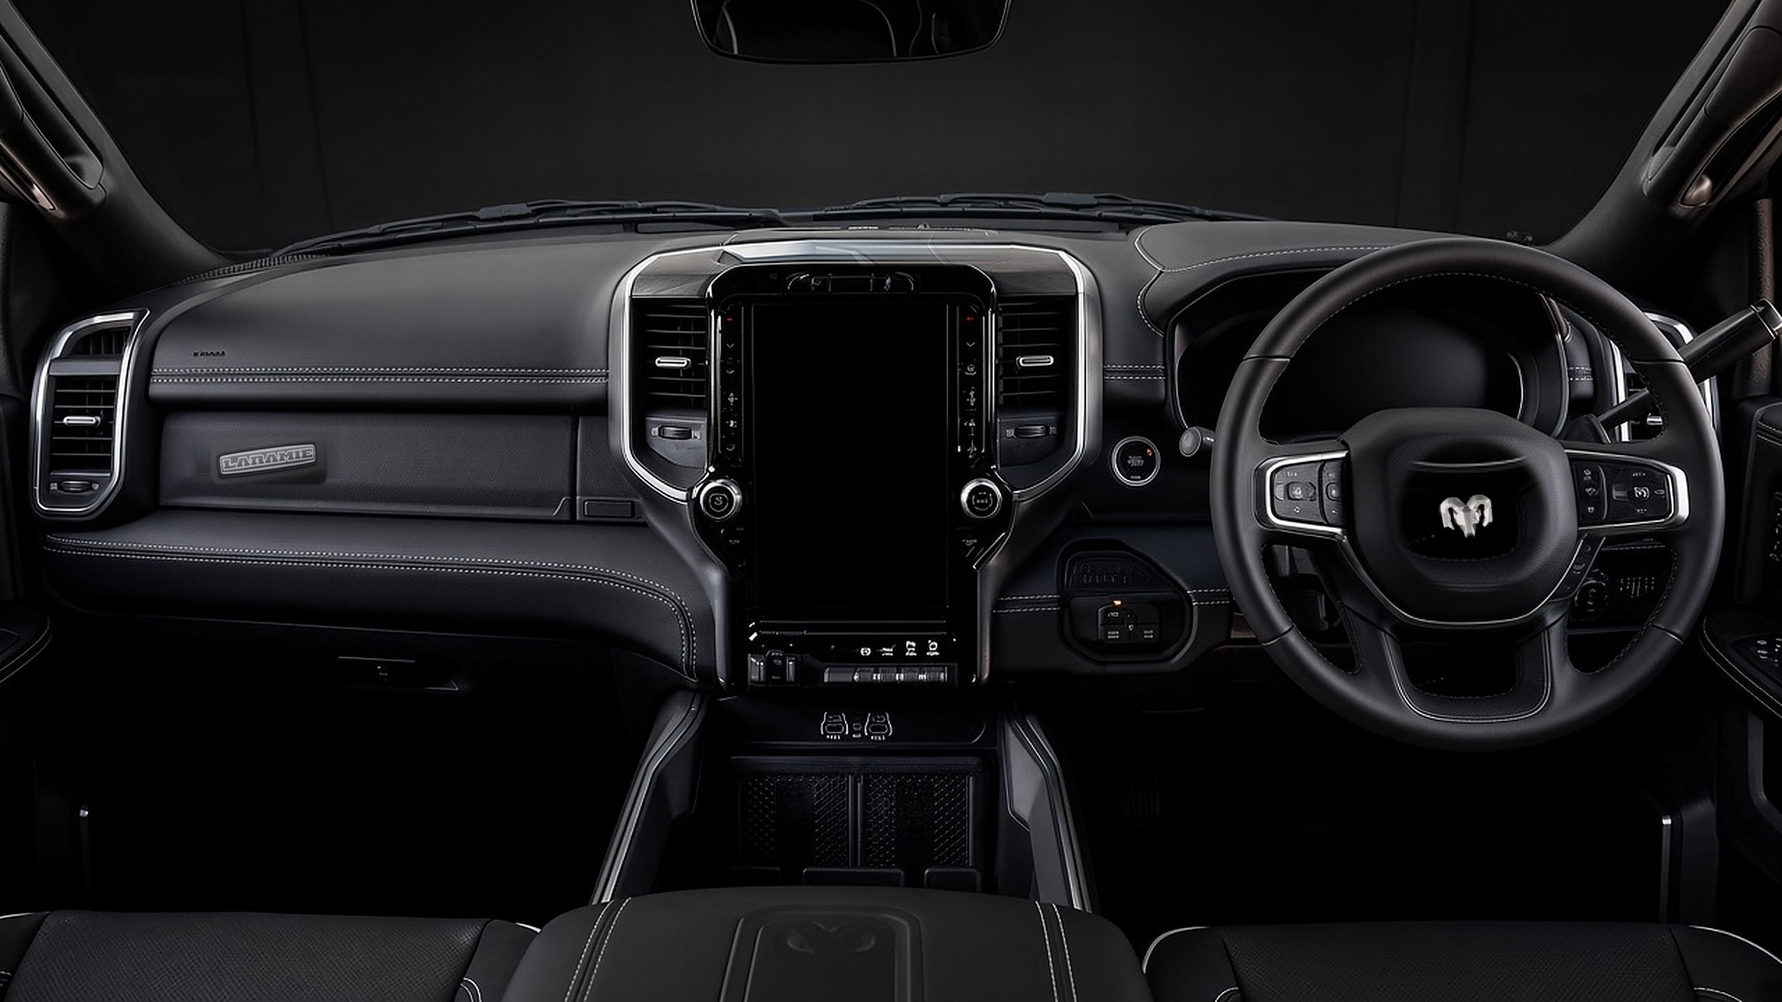
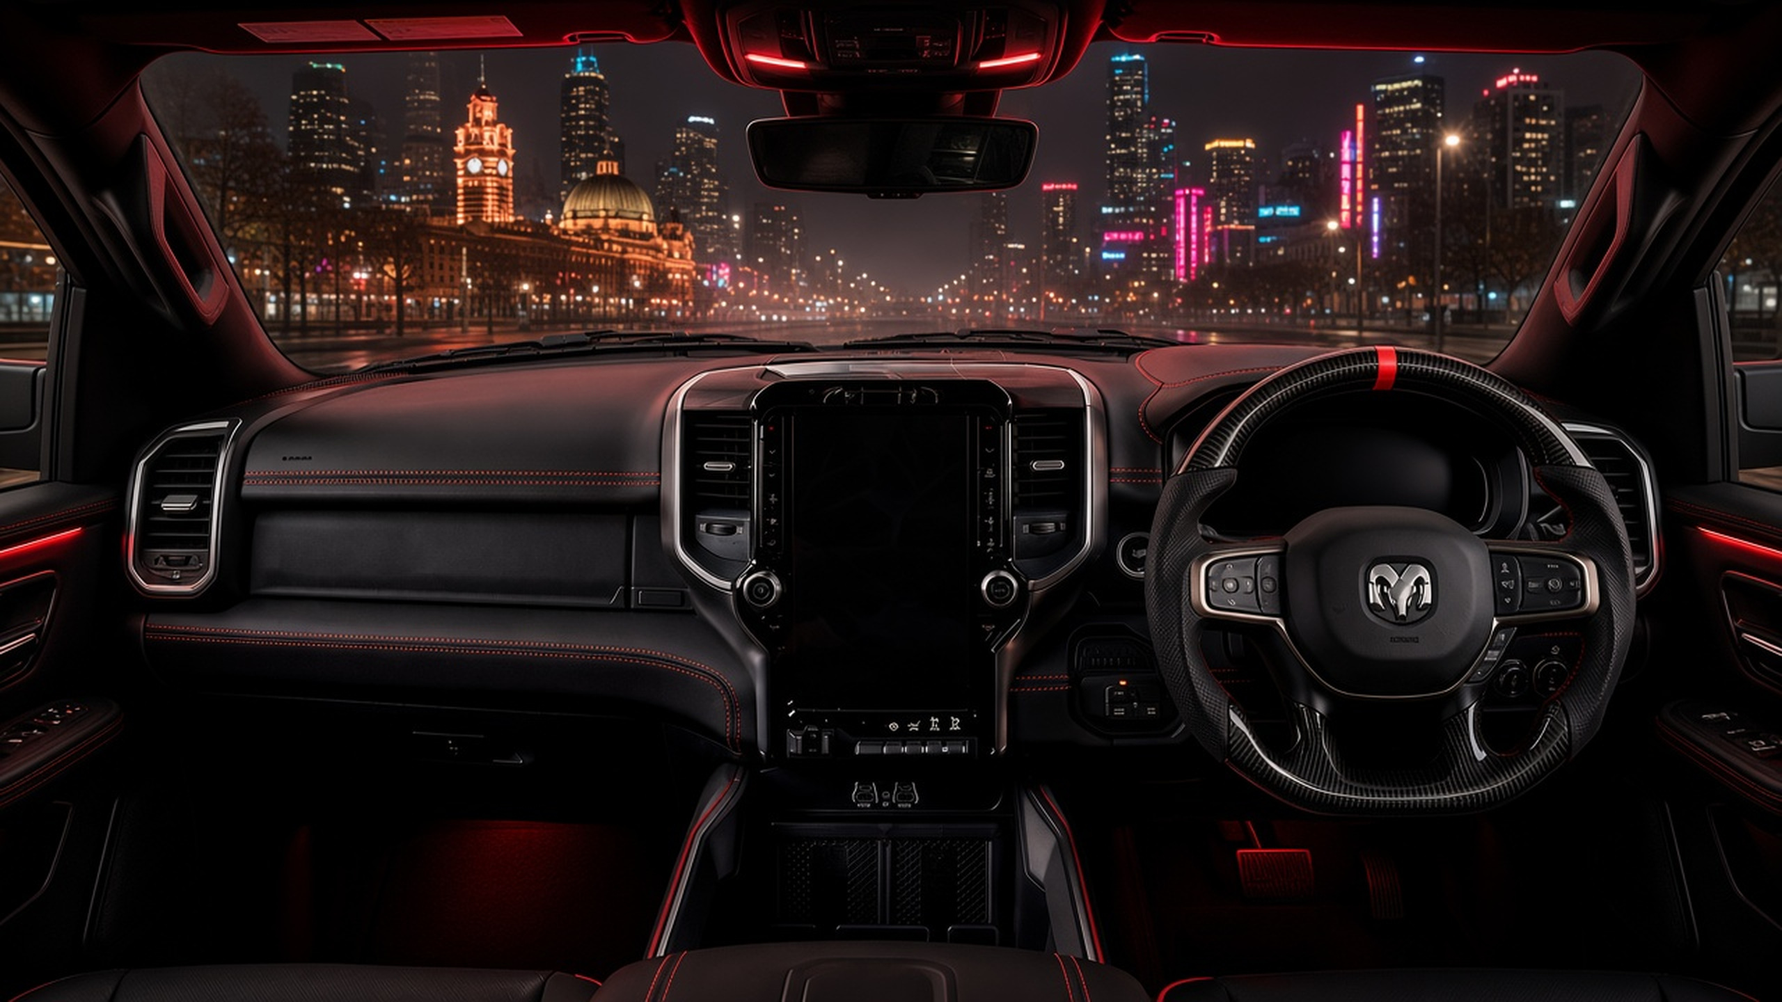
YBI Radio: night Ram cabin with neon Melbourne view, red ambient, screen fitted to glass (#36)
* Remove the dash badges and steady the radio screen.

The cabin photo is plain leather on the wheel, passenger panel, and console lid. The cluster readout is gone, the screen shows a green segment channel number, and the scene no longer shifts with the pointer or the station.

* Use Drew's cabin photo and show the station name.

The approved dashboard replaces the old background and is only upscaled so it stays sharp. The screen and both knobs are measured to this frame. The readout above the equaliser is the station name in 14-segment type.

* Inset the radio screen inside the glass.

The overlay sits a few percent inside the measured black glass on every side, with the bezel left clear and the corner radius following the screen.

* Keep the radio screen content inside the glass corners.

The overlay radius now follows the cabin glass, and the UI is padded so the logo, clock, and transport buttons stay clear of the rounded edge.

* Seat the radio on Drew's night cabin.

The approved photo is the background, upscaled with Lanczos. The overlay stays inside the centre glass, and the volume and seek hotspots sit on the two chrome knobs.

---------

diff --git a/public/assets/app.css b/public/assets/app.css
@@ -1,6 +1,9 @@
 /* YBI Creative — Proofs. Brand tokens lifted from ybicreative.com.au site.css */
 @font-face{font-family:"Archivo";src:url(fonts/archivo-wdth.woff2) format("woff2");font-weight:100 900;font-stretch:62% 125%;font-display:swap}
 @font-face{font-family:"Work Sans";src:url(fonts/work-sans.woff2) format("woff2");font-weight:100 900;font-display:swap}
+/* DSEG14 Classic by Keshikan, used under the SIL Open Font License. Italic is the all-segments layer. */
+@font-face{font-family:"DSEG14-Classic";src:url(fonts/dseg14-classic.woff2) format("woff2");font-weight:400;font-style:normal;font-display:swap}
+@font-face{font-family:"DSEG14-Classic";src:url(fonts/dseg14-classic-italic.woff2) format("woff2");font-weight:400;font-style:italic;font-display:swap}
 :root{
   --bg:#09090a;--bg2:#0f0f11;--bg3:#151518;--ink:#f3f1ec;--mute:#a7a49e;--dim:#6f6c67;
   --line:rgba(243,241,236,.12);--line2:rgba(243,241,236,.22);
@@ -504,19 +507,15 @@ body.is-radio .ftr{display:none}
 body.is-radio main{padding-bottom:0;height:100vh;overflow:hidden}
 body.rx-dock{padding-bottom:84px}
 .rx{position:relative;height:calc(100vh - var(--hdr));overflow:hidden;background:#09090a}
-.rx-scene{position:absolute;transform-origin:center center;will-change:transform}
+.rx-scene{position:absolute;container-type:size}
 .rx-photo{width:100%;height:100%;object-fit:fill;pointer-events:none;user-select:none}
-.rx-cluster{position:absolute;left:77.3%;top:29.9%;width:9.4%;height:8%;display:flex;flex-direction:column;align-items:center;justify-content:center;color:#f3f1ec;text-align:center;pointer-events:none;text-shadow:0 1px 2px rgba(0,0,0,.85)}
-.rx-cluster b{font-family:var(--display);font-stretch:125%;font-weight:800;font-size:1.15vw;line-height:.85}
-.rx-cluster span{font:500 .55vw/1 var(--sans);letter-spacing:.18em;text-transform:uppercase;color:#A7A9AC}
-.rx-cluster em{font-style:normal;font:500 .48vw/1.1 var(--sans);letter-spacing:.08em;text-transform:uppercase;max-width:100%;overflow:hidden;text-overflow:ellipsis;white-space:nowrap}
 .rx-hot{position:absolute;border:0;padding:0;border-radius:50%;background:transparent;cursor:pointer}
-.rx-hot--vol{left:37.19%;top:47.22%;width:5.31%;height:9.44%;cursor:ns-resize}
-.rx-hot--tune{left:52.81%;top:47.22%;width:5.31%;height:9.44%;cursor:ew-resize}
-.rx-hot:focus-visible{outline:2px solid #A7A9AC;outline-offset:2px}
-.rx-screen{position:absolute;left:42.34%;top:29.17%;width:10.78%;height:33.06%;container-type:size;overflow:hidden;border-radius:2px;background:#09090a}
-.rx-screen::after{content:"";position:absolute;inset:0;pointer-events:none;background:linear-gradient(180deg,rgba(243,241,236,.05),transparent 18%)}
-.rx-ui{box-sizing:border-box;height:100%;display:flex;flex-direction:column;overflow:hidden;background:#09090a;color:#f3f1ec;font-family:var(--sans);padding:2.6cqw 2.4cqw 2.2cqw;gap:1.5cqw}
+.rx-hot--vol{left:41.640625%;top:56.805556%;width:2.1875%;height:3.888889%;cursor:ns-resize}
+.rx-hot--tune{left:55%;top:56.805556%;width:2.1875%;height:3.888889%;cursor:ew-resize}
+.rx-hot:focus-visible{outline:2px solid #E10600;outline-offset:2px}
+.rx-screen{position:absolute;left:44.628906%;top:40.579167%;width:9.570313%;height:29.536111%;container-type:size;overflow:hidden;border-radius:.85cqw;background:#000}
+.rx-screen::after{content:"";position:absolute;inset:0;pointer-events:none;border-radius:inherit;background:linear-gradient(180deg,rgba(255,255,255,.11),rgba(255,255,255,.025) 13%,transparent 30%),linear-gradient(118deg,transparent 46%,rgba(255,255,255,.05) 50%,transparent 54%)}
+.rx-ui{box-sizing:border-box;height:100%;min-height:0;display:flex;flex-direction:column;overflow:hidden;background:#09090a;color:#f3f1ec;font-family:var(--sans);padding:5.6cqw 5.2cqw 5.2cqw;gap:1.15cqw}
 .rx-bar{display:flex;align-items:center;gap:2cqw;min-height:5.2cqw;font:500 clamp(8px,2.8cqw,13px)/1 var(--sans);letter-spacing:.12em;text-transform:uppercase;color:#a7a49e}
 .rx-logo{height:4.6cqw;width:auto;max-width:34%;object-fit:contain;display:block}
 .rx-clock{font-variant-numeric:tabular-nums;margin-left:auto}
@@ -524,27 +523,34 @@ body.rx-dock{padding-bottom:84px}
 .rx-sig i{display:block;width:.65cqw;border-radius:1px;background:#6f6c67;opacity:.45}
 .rx-sig i:nth-child(1){height:30%}.rx-sig i:nth-child(2){height:50%}.rx-sig i:nth-child(3){height:75%}.rx-sig i:nth-child(4){height:100%}
 .rx-sig.is-live i{opacity:1;background:#00C853}
-.rx-hero{position:relative;flex:1.05;min-height:0;display:flex;flex-wrap:wrap;align-content:space-between;gap:1cqw 1.6cqw;background:#0f0f11;border-radius:1.6cqw;padding:1.8cqw 1.6cqw 1.4cqw}
-.rx-art{width:22cqw;height:22cqw;border-radius:1.4cqw;display:grid;place-items:center;background:#151518;color:#f3f1ec;font-family:var(--display);font-stretch:125%;font-weight:800;font-size:7cqw;letter-spacing:-.03em;line-height:1}
+.rx-hero{position:relative;flex:1.05;min-height:0;display:flex;flex-wrap:wrap;align-content:space-between;gap:1cqw 1.6cqw;background:#0f0f11;border-radius:1.6cqw;padding:1.8cqw 1.6cqw 1.4cqw;overflow:hidden}
+.rx-art{flex:none;width:22cqw;height:22cqw;border-radius:1.4cqw;display:grid;place-items:center;background:#151518;color:#f3f1ec;font-family:var(--display);font-stretch:125%;font-weight:800;font-size:7cqw;letter-spacing:-.03em;line-height:1}
 .rx-art.is-live{box-shadow:inset 0 0 0 1.5px #00C853;color:#00C853}
 .rx-copy{flex:1;min-width:0;padding-top:.4cqw}
-.rx-kicker{margin:0;font:500 2.3cqw/1 var(--sans);letter-spacing:.22em;text-transform:uppercase;color:#a7a49e}
+.rx-kicker{margin:0;height:2.6cqw;font:500 2.3cqw/2.6cqw var(--sans);letter-spacing:.22em;text-transform:uppercase;color:#a7a49e;overflow:hidden;white-space:nowrap}
 .rx-kicker .ol{color:#A7A9AC;-webkit-text-fill-color:#A7A9AC;filter:url(#ol-s)}
-.rx-hero h1{margin:.6cqw 0 0;font-family:var(--display);font-stretch:125%;font-weight:800;font-size:clamp(12px,6.4cqw,28px);line-height:.9;letter-spacing:-.03em;text-transform:uppercase;color:#f3f1ec}
-.rx-sub{margin:.7cqw 0 0;color:#a7a49e;font:500 2.3cqw/1.15 var(--sans);letter-spacing:.1em;text-transform:uppercase}
-.rx-live{position:absolute;left:1.6cqw;bottom:calc(1.4cqw + 7.5cqw);margin:0;padding:.45cqw 1.4cqw;border-radius:999px;background:#E10600;color:#fff;font:700 2.1cqw/1 var(--sans);letter-spacing:.16em;text-transform:uppercase}
+.rx-hero h1{margin:.5cqw 0 0;height:1.15em;overflow:hidden;text-overflow:ellipsis;white-space:nowrap;font-family:var(--display);font-stretch:125%;font-weight:800;font-size:clamp(8px,5.2cqw,22px);line-height:1.15;letter-spacing:-.03em;text-transform:uppercase;color:#f3f1ec}
+.rx-sub{margin:.55cqw 0 0;height:1.2em;overflow:hidden;text-overflow:ellipsis;white-space:nowrap;color:#a7a49e;font:500 2.2cqw/1.2 var(--sans);letter-spacing:.1em;text-transform:uppercase}
+.rx-live{flex:none;margin:0;padding:.35cqh 1.2cqw;border-radius:999px;background:#E10600;color:#fff;font:700 2.2cqh/1 var(--sans);letter-spacing:.14em;text-transform:uppercase}
 .rx-star{position:absolute;top:1.2cqw;right:1.2cqw;background:none;border:0;color:#6f6c67;font-size:4cqw;cursor:pointer;line-height:1;padding:0}
 .rx-star.is-on{color:#00C853}
-.rx-meter{width:100%;height:6.4cqw;align-self:flex-end}
+.rx-tune{flex:none;align-self:flex-end;width:100%;height:6.4cqh;display:flex;align-items:center;justify-content:space-between;gap:1.2cqw}
+.rx-ch{position:relative;flex:1;min-width:0;height:100%;margin:0;overflow:hidden;font-family:"DSEG14-Classic","Courier New",monospace;font-weight:400;font-style:normal;font-size:4.8cqh;line-height:1;letter-spacing:.03em;color:#00C853}
+.rx-ch-ghost,.rx-ch-text{display:block;width:100%;overflow:hidden;white-space:nowrap;line-height:1}
+.rx-ch-ghost{position:absolute;left:0;top:0;font-style:italic;color:rgba(0,200,83,.28);pointer-events:none}
+.rx-ch-text{position:relative;text-shadow:0 0 8px rgba(0,200,83,.5)}
+.rx-meter{flex:none;align-self:flex-end;width:100%;height:7cqh;display:flex;align-items:flex-end;gap:.7cqw}
+.rx-meter i{flex:1;height:12%;min-height:2px;border-radius:1px;background:#00C853;opacity:.45;transform-origin:bottom center;transition:height .28s ease,opacity .28s ease,background-color .28s ease}
 .rx-tabs{display:flex;gap:1cqw}
 .rx-tabs button,.rx-controls button,.rx-preset{appearance:none;border:1px solid rgba(243,241,236,.16);color:#f3f1ec;background:#0f0f11;cursor:pointer}
-.rx-tabs button{flex:1;min-width:0;height:clamp(16px,6cqw,28px);border-radius:999px;font:500 clamp(8px,2.3cqw,12px)/1 var(--sans);letter-spacing:.06em;text-transform:uppercase}
+.rx-tabs button:active,.rx-controls button:active,.rx-preset:active,.rx-star:active{filter:brightness(.82)}
+.rx-tabs button{flex:1;min-width:0;height:clamp(11px,5.2cqw,26px);border-radius:999px;font:500 clamp(6px,2.2cqw,12px)/1 var(--sans);letter-spacing:.06em;text-transform:uppercase}
 .rx-tabs button.is-on{background:#00C853;border-color:#00C853;color:#09090a}
-.rx-presets{flex:1.15;min-height:0;display:grid;grid-template-columns:1fr 1fr;grid-auto-rows:minmax(22px,1fr);gap:1.1cqw;overflow:auto}
+.rx-presets{flex:1.15;min-height:0;display:grid;grid-template-columns:1fr 1fr;grid-auto-rows:minmax(0,1fr);gap:1cqw;overflow:hidden}
 .rx-preset{display:flex;flex-direction:column;align-items:flex-start;justify-content:center;gap:.3cqw;min-height:0;padding:1.2cqw 1.4cqw;border-radius:1.3cqw;text-align:left}
 .rx-preset i{font-style:normal;font:800 2.6cqw/1 var(--display);font-stretch:125%;color:#a7a49e}
 .rx-preset small{font:500 1.9cqw/1 var(--sans);letter-spacing:.08em;color:#6f6c67}
-.rx-preset b{font:500 clamp(8px,2.5cqw,13px)/1.05 var(--sans);max-width:100%;overflow:hidden;text-overflow:ellipsis;white-space:nowrap}
+.rx-preset b{font:500 clamp(7px,2.6cqw,13px)/1.05 var(--sans);max-width:100%;overflow:hidden;text-overflow:ellipsis;white-space:nowrap}
 .rx-preset.is-on{background:rgba(0,200,83,.16);border-color:#00C853;color:#f3f1ec}
 .rx-preset.is-on i,.rx-preset.is-on small{color:#00C853}
 .rx-empty{grid-column:1 / -1;color:#a7a49e;font-size:2.6cqw;margin:1cqw 0}
@@ -552,11 +558,16 @@ body.rx-dock{padding-bottom:84px}
 .rx-volbar i{display:block;height:100%;width:0;background:#00C853;border-radius:inherit}
 .rx-volbar span{position:absolute;right:1.4cqw;top:50%;transform:translateY(-50%);font:600 2cqw/1 var(--sans);letter-spacing:.08em;color:#09090a;mix-blend-mode:difference}
 .rx-controls{display:flex;align-items:center;gap:1cqw}
-.rx-controls button{flex:1;height:clamp(20px,7.2cqw,34px);min-width:0;padding:0;border-radius:999px;font:500 clamp(8px,2.2cqw,12px)/1 var(--sans);letter-spacing:.04em;text-transform:uppercase}
+.rx-controls button{flex:1;height:clamp(12px,6.4cqw,30px);min-width:0;padding:0 .3cqw;border-radius:999px;font:500 clamp(6px,2.15cqw,12px)/1 var(--sans);letter-spacing:.04em;text-transform:uppercase}
 .rx-controls .rx-play{flex:0 0 7.2cqw;background:#f3f1ec;border-color:#f3f1ec;color:#09090a;font-size:2.8cqw;letter-spacing:0;text-transform:none}
 .rx-controls .rx-play.is-live{background:#00C853;border-color:#00C853;color:#09090a}
 .rx-controls button.is-on{background:#00C853;border-color:#00C853;color:#09090a}
 .rx-controls [data-mute].is-on{background:#E10600;border-color:#E10600;color:#fff}
+@container (max-width: 240px){
+  .rx-kicker,.rx-sub,.rx-preset small,.rx-preset i{display:none}
+  .rx-hero{padding:1.2cqw 1.2cqw 1cqw;gap:.7cqw}
+  .rx-art{width:18cqw;height:18cqw;font-size:5.6cqw}
+}
 .rx-mini{position:fixed;z-index:150;left:12px;right:12px;bottom:12px;display:flex;align-items:center;gap:12px;padding:8px 10px 8px 14px;border-radius:999px;border:1px solid rgba(243,241,236,.22);background:rgba(9,9,10,.92);box-shadow:0 12px 40px rgba(0,0,0,.45)}
 .rx-mini-lamp{width:10px;height:10px;border-radius:50%;background:#6f6c67;flex:none}
 .rx-mini-lamp.is-live{background:#00C853;box-shadow:0 0 10px rgba(0,200,83,.7)}
@@ -567,7 +578,9 @@ body.rx-dock{padding-bottom:84px}
 .rx-mini-vol input{width:100%;accent-color:#00C853}
 @media (max-width:720px){
   .rx-mini-vol{width:72px}
-  .rx-cluster b{font-size:2.4vw}
-  .rx-cluster span{font-size:1.3vw}
-  .rx-cluster em{font-size:1.15vw}
+}
+@media (prefers-reduced-motion:reduce){
+  .rx-meter i{transition:none}
+  .rx-ch-text{text-shadow:none}
+  .rx-tabs button:active,.rx-controls button:active,.rx-preset:active,.rx-star:active{filter:none}
 }

diff --git a/public/assets/radio.js b/public/assets/radio.js
@@ -45,8 +45,15 @@ let scanTimer = 0;
 let playGen = 0;
 let volume = 0.8;
 let ctx, analyser, freq;
-let raf = 0;
+let meterTimer = 0;
+let meterPhase = 0;
 const meters = new Set();
+const BAR_COUNT = 24;
+const barShown = new Array(BAR_COUNT).fill(0.1);
+
+function prefersStill() {
+  return window.matchMedia('(prefers-reduced-motion: reduce)').matches;
+}
 
 function savedVolume() {
   const raw = localStorage.getItem(KEY_VOLUME);
@@ -247,60 +254,75 @@ function mark(station) {
   if (words.length === 1) return words[0].slice(0, 2).toUpperCase();
   return (words[0][0] + words[1][0]).toUpperCase();
 }
-function drawMeter(canvas, t) {
-  const dpr = Math.min(window.devicePixelRatio || 1, 2);
-  const w = canvas.clientWidth || 280;
-  const h = canvas.clientHeight || 48;
-  if (canvas.width !== Math.floor(w * dpr) || canvas.height !== Math.floor(h * dpr)) {
-    canvas.width = Math.floor(w * dpr);
-    canvas.height = Math.floor(h * dpr);
+function stationLine() {
+  return (current ? current.name : 'YBI Radio').toUpperCase();
+}
+function fitStation(root) {
+  const el = $('[data-ch]', root || document);
+  if (!el || !el.clientWidth) return;
+  const text = $('[data-ch-text]', el);
+  const ghost = $('[data-ch-ghost]', el);
+  if (!text || !ghost) return;
+  const line = stationLine();
+  text.textContent = line;
+  ghost.textContent = line;
+  const cap = el.clientHeight || 16;
+  let size = Math.min(cap * 0.92, 28);
+  const floor = Math.max(7, cap * 0.48);
+  const apply = px => { el.style.fontSize = `${px}px`; };
+  apply(size);
+  while (size > floor && text.scrollWidth > el.clientWidth + 0.5) {
+    size = Math.round((size - 0.4) * 10) / 10;
+    apply(size);
   }
-  const g = canvas.getContext('2d');
-  g.setTransform(dpr, 0, 0, dpr, 0, 0);
-  g.clearRect(0, 0, w, h);
-  const n = 28;
-  const gap = 3;
-  const bw = (w - gap * (n - 1)) / n;
+}
+function barTargets() {
   let levels = null;
   if (playing && usingProbe && analyser && freq) {
     analyser.getByteFrequencyData(freq);
-    const sum = freq.reduce((a, b) => a + b, 0);
+    let sum = 0;
+    for (let i = 0; i < freq.length; i++) sum += freq[i];
     if (sum > 0) levels = freq;
   }
-  for (let i = 0; i < n; i++) {
-    let v;
-    if (levels) v = levels[Math.floor(i / n * levels.length)] / 255;
-    else if (playing) v = 0.18 + 0.55 * Math.abs(Math.sin(t / 180 + i * 0.55)) * (0.45 + 0.55 * Math.abs(Math.sin(t / 90 + i)));
-    else v = 0.04;
-    const bh = Math.max(3, v * h);
-    const x = i * (bw + gap);
-    const y = h - bh;
-    g.fillStyle = v > 0.78 ? '#d8ffe8' : '#00C853';
-    g.globalAlpha = playing ? 0.95 : 0.45;
-    g.fillRect(x, y, bw, bh);
+  const out = new Array(BAR_COUNT);
+  for (let i = 0; i < BAR_COUNT; i++) {
+    if (!playing) out[i] = 0.1;
+    else if (levels) out[i] = 0.16 + 0.78 * (levels[Math.min(levels.length - 1, Math.floor(i / BAR_COUNT * levels.length))] / 255);
+    else out[i] = 0.28 + 0.34 * (0.5 + 0.5 * Math.sin(meterPhase + i * 0.62));
   }
-  g.globalAlpha = 1;
+  return out;
 }
-
+function paintMeters() {
+  const still = prefersStill();
+  const targets = barTargets();
+  meters.forEach(el => {
+    if (!el.isConnected) { meters.delete(el); return; }
+    const bars = el.querySelectorAll('i');
+    bars.forEach((bar, i) => {
+      const target = targets[i] ?? 0.1;
+      const v = still ? (playing ? 0.42 : 0.1) : (barShown[i] = barShown[i] + (target - barShown[i]) * 0.42);
+      bar.style.height = `${Math.round(Math.max(0.1, v) * 100)}%`;
+      bar.style.opacity = playing ? '0.95' : '0.4';
+      bar.style.background = !still && v > 0.82 ? '#d8ffe8' : '#00C853';
+    });
+  });
+  if (!still && playing) meterPhase += 0.28;
+}
 function startMeter() {
-  if (raf) return;
-  const loop = t => {
-    raf = requestAnimationFrame(loop);
-    meters.forEach(c => { if (!c.isConnected) meters.delete(c); else drawMeter(c, t); });
-  };
-  raf = requestAnimationFrame(loop);
+  paintMeters();
+  if (meterTimer || prefersStill()) return;
+  meterTimer = setInterval(paintMeters, 110);
 }
 function stopMeter() {
-  if (raf) cancelAnimationFrame(raf);
-  raf = 0;
-  meters.forEach(c => { if (c.isConnected) drawMeter(c, 0); });
+  if (meterTimer) clearInterval(meterTimer);
+  meterTimer = 0;
+  paintMeters();
 }
-
-function watchMeter(canvas) {
-  if (!canvas || meters.has(canvas)) return;
-  meters.add(canvas);
-  drawMeter(canvas, 0);
+function watchMeter(el) {
+  if (!el || meters.has(el)) return;
+  meters.add(el);
   if (playing) startMeter();
+  else paintMeters();
 }
 
 let mini;
@@ -351,8 +373,6 @@ function paintConsole() {
   const name = current ? current.name : 'YBI Radio';
   $('[data-led]', root).textContent = name;
   $('[data-sub]', root).textContent = current ? `${current.place} · ${current.genre}` : 'Choose a preset';
-  const cluster = $('[data-cluster]', root);
-  if (cluster) cluster.textContent = name;
   const live = $('[data-live]', root);
   live.hidden = !playing;
   live.textContent = scanning ? 'Live · Scan' : 'Live';
@@ -395,45 +415,35 @@ function paintConsole() {
   if (volKnob) volKnob.setAttribute('aria-valuenow', String(Math.round((muted ? 0 : volume) * 100)));
   const tuneKnob = $('[data-tuneknob]', root);
   if (tuneKnob) tuneKnob.setAttribute('aria-valuetext', current ? current.name : 'No station');
+  fitStation(root);
 }
 
 const BANK_SHORT = { Favourites: 'Fav', National: 'Nat', Melbourne: 'Mel', Genre: 'Gen' };
-const GLASS = { x: 0.4234, y: 0.2917, w: 0.1078, h: 0.3306 };
-
-function applyPan(root) {
-  const scene = $('[data-scene]', root);
-  if (!scene) return;
-  const pan = root._pan || { x: 0, y: 0 };
-  const scale = root._sceneScale || 1;
-  scene.style.transform = `translate(${pan.x}px, ${pan.y}px) scale(${scale})`;
-}
+const GLASS = { x: 570 / 1280, y: 290 / 720, w: 125 / 1280, h: 217 / 720 };
 
 function placeScene(root) {
   const scene = $('[data-scene]', root);
   if (!scene) return;
   const vw = root.clientWidth;
   const vh = root.clientHeight;
-  const narrow = vw < 760;
-  let w, h, left, top;
-  if (narrow) {
-    w = (vw * 0.92) / GLASS.w;
-    h = w * 9 / 16;
-    left = vw / 2 - (GLASS.x + GLASS.w / 2) * w;
-    top = vh * 0.46 - (GLASS.y + GLASS.h / 2) * h;
-    root._sceneScale = 1;
-  } else {
-    const s = Math.max(vw / 16, vh / 9) * 1.14;
-    w = 16 * s;
-    h = 9 * s;
-    left = (vw - w) / 2;
-    top = (vh - h) / 2;
-    root._sceneScale = 1;
-  }
+  // Cover the radio viewport with the night cabin, keeping source y 30–640
+  // (skyline through the lower dash) and the centre glass in frame.
+  const scale = Math.max(vw / 1280, vh / 610);
+  const w = 1280 * scale;
+  const h = 720 * scale;
+  const screenCx = (GLASS.x + GLASS.w / 2) * w;
+  let left = vw / 2 - screenCx;
+  if (left > 0) left = 0;
+  if (left + w < vw) left = vw - w;
+  let top = -30 * scale;
+  if (top > 0) top = 0;
+  if (top + h < vh) top = vh - h;
   scene.style.width = `${w}px`;
   scene.style.height = `${h}px`;
   scene.style.left = `${left}px`;
   scene.style.top = `${top}px`;
-  applyPan(root);
+  scene.style.transform = 'none';
+  fitStation(root);
 }
 
 function bindKnob(el, { onDelta, onClick }) {
@@ -471,11 +481,6 @@ export async function radioPage() {
   app.innerHTML = `<div class="rx" data-rx>
     <div class="rx-scene" data-scene>
       <img class="rx-photo" alt="" src="${B}/assets/img/ybi-dash.jpg">
-      <div class="rx-cluster" aria-hidden="true">
-        <b>0</b>
-        <span>km/h</span>
-        <em data-cluster>YBI Radio</em>
-      </div>
       <button type="button" class="rx-hot rx-hot--vol" data-volknob aria-label="Volume" role="slider" aria-valuemin="0" aria-valuemax="100" aria-valuenow="80"></button>
       <button type="button" class="rx-hot rx-hot--tune" data-tuneknob aria-label="Tune"></button>
       <div class="rx-screen">
@@ -492,9 +497,12 @@ export async function radioPage() {
               <h1 data-led>YBI Radio</h1>
               <p class="rx-sub" data-sub>Choose a preset</p>
             </div>
-            <p class="rx-live" data-live hidden>Live</p>
             <button type="button" class="rx-star" data-fav aria-label="Favourite" aria-pressed="false">☆</button>
-            <canvas class="rx-meter" data-meter width="320" height="36" aria-hidden="true"></canvas>
+            <div class="rx-tune">
+              <p class="rx-ch" data-ch><span class="rx-ch-ghost" data-ch-ghost aria-hidden="true">YBI RADIO</span><span class="rx-ch-text" data-ch-text>YBI RADIO</span></p>
+              <p class="rx-live" data-live hidden>Live</p>
+            </div>
+            <div class="rx-meter" data-meter aria-hidden="true">${'<i></i>'.repeat(BAR_COUNT)}</div>
           </section>
           <div class="rx-tabs" role="tablist" aria-label="Bands">
             ${BANKS.map(name => `<button type="button" role="tab" data-bank="${esc(name)}" aria-label="${esc(name)}">${esc(BANK_SHORT[name] || name)}</button>`).join('')}
@@ -540,17 +548,8 @@ export async function radioPage() {
     },
     onClick: () => { stopScan(); step(1); }
   });
-  root.addEventListener('pointermove', e => {
-    if (root.clientWidth < 760) return;
-    if (window.matchMedia('(prefers-reduced-motion: reduce)').matches) return;
-    const r = root.getBoundingClientRect();
-    root._pan = {
-      x: ((e.clientX - r.left) / r.width - 0.5) * -18,
-      y: ((e.clientY - r.top) / r.height - 0.5) * -12
-    };
-    applyPan(root);
-  });
   placeScene(root);
+  if (document.fonts && document.fonts.ready) document.fonts.ready.then(() => { if (root.isConnected) fitStation(root); });
   const ro = new ResizeObserver(() => placeScene(root));
   ro.observe(root);
   clearInterval(clockTimer);
